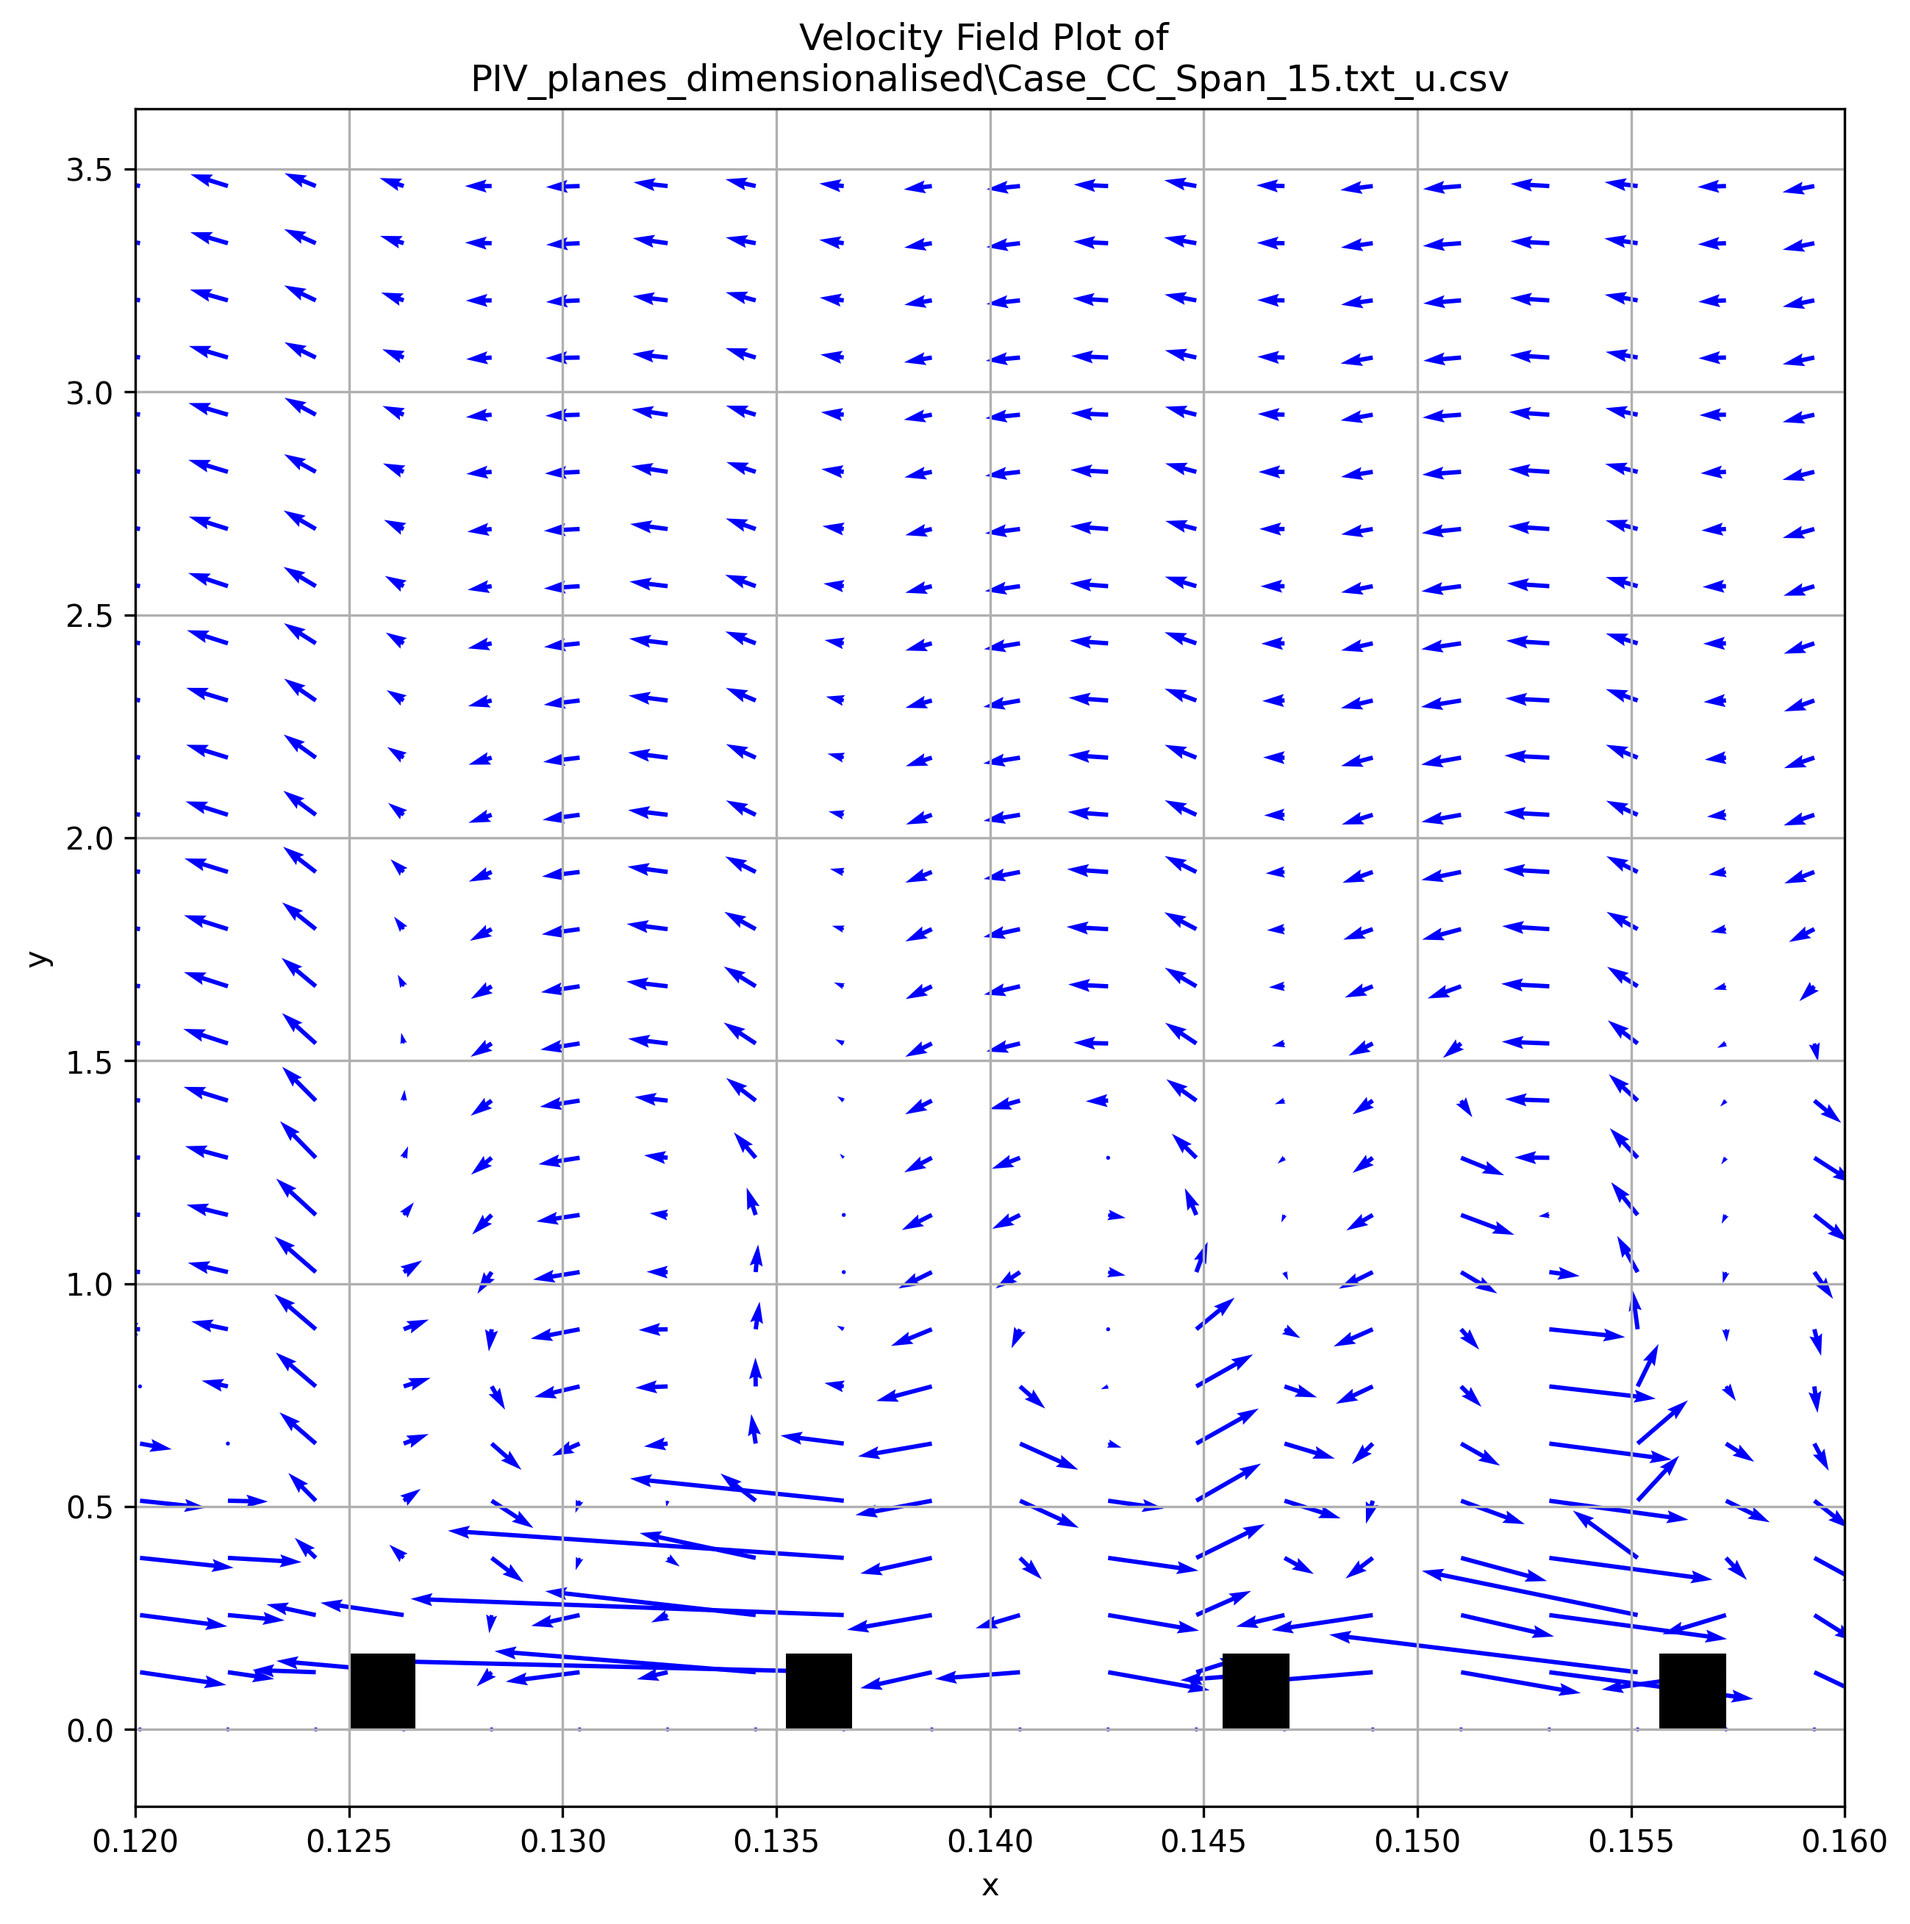
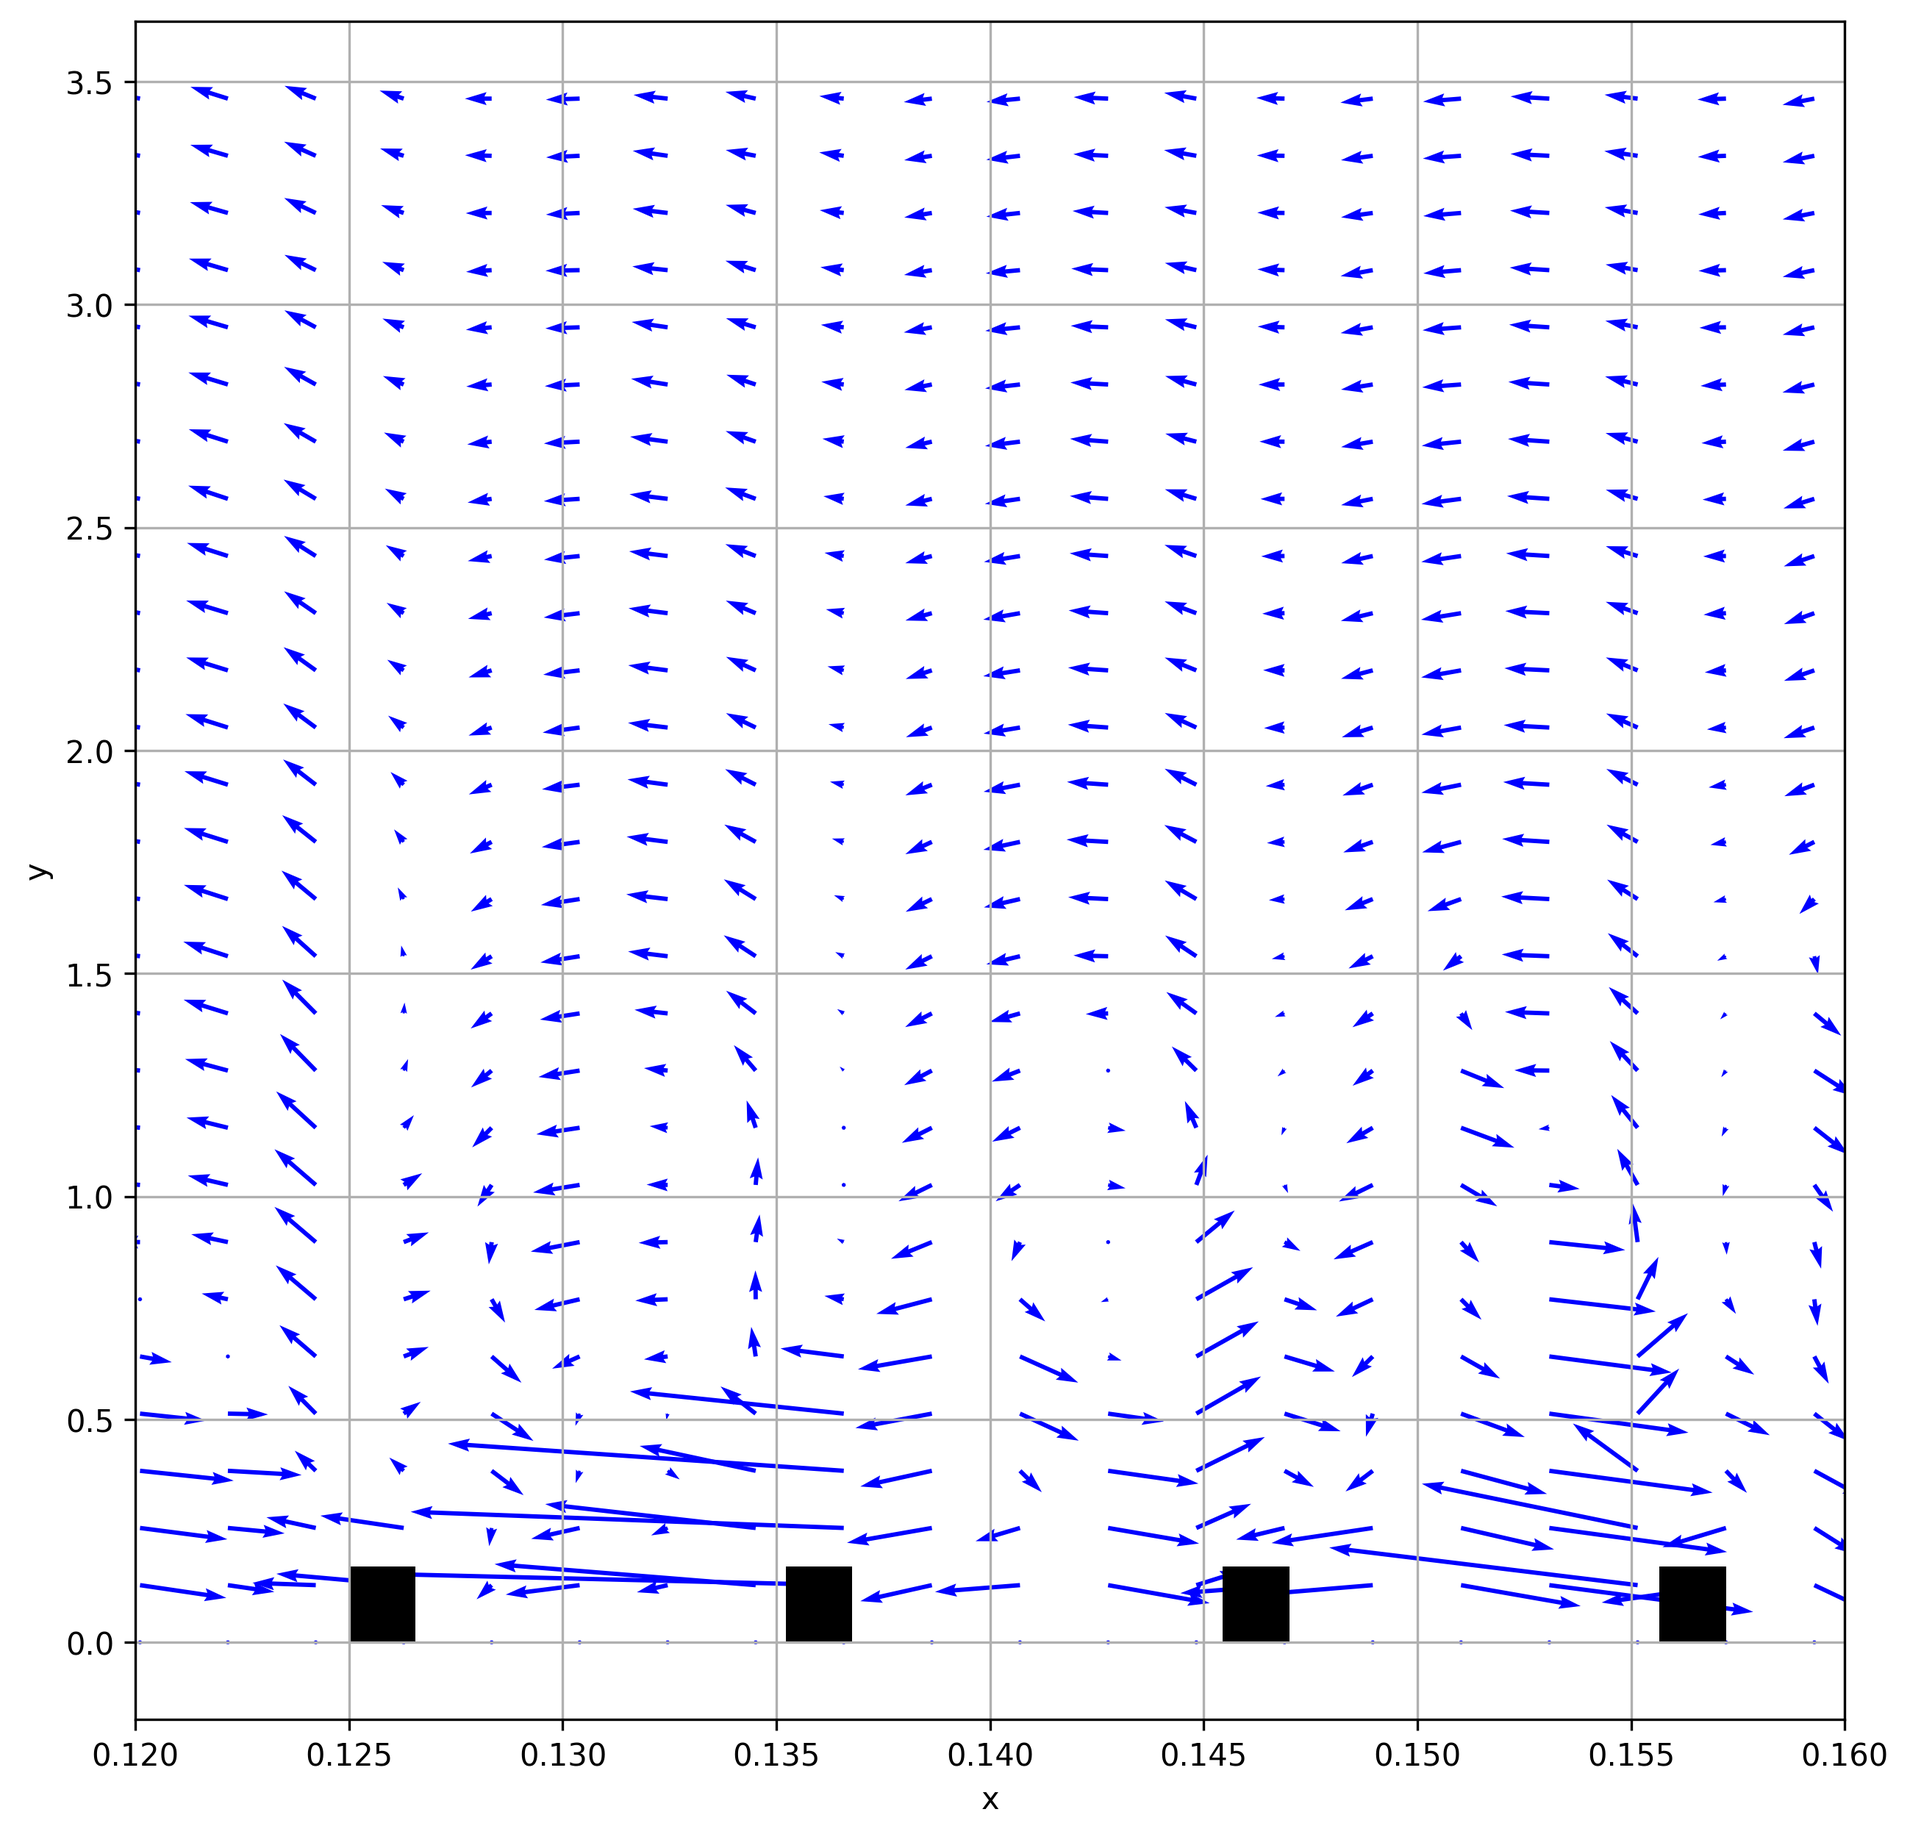
commit please

diff --git a/3dvelocityfieldplot.py b/3dvelocityfieldplot.py
@@ -120,10 +120,7 @@ for i in range(24):
     listaverageV = np.append(listaverageV,np.average(V_3D[:,:,i]))
     listaverageVc = np.append(listaverageVc,np.average(Vc_3D[:,:,i]))
 
-print(np.std(listaverageU/avgfreestreamUs))
-print(np.std(listaverageUc/avgfreestreamUs))
-print(np.std(listaverageV/avgfreestreamUs))
-print(np.std(listaverageVc/avgfreestreamUc))
+print(f'Standard Deviation of Velocity Fields: \n U velocity field in clean configuration: {np.std(listaverageUc/avgfreestreamUs)} \n U velocity field with strip configuration: {np.std(listaverageU/avgfreestreamUs)} \n V velocity field in clean configuration: {np.std(listaverageVc/avgfreestreamUs)} \n V velocity field with strip configuration: {np.std(listaverageV/avgfreestreamUs)}')
 
 '''
 ax.quiver(Y[::stepy,::stepx,:],X[::stepy,::stepx,:], Z[::stepy,::stepx,:], V_3D[::stepy,::stepx,:],U_3D[::stepy,::stepx,:], W_3D[::stepy,::stepx,:],length=0.1)

diff --git a/velocityfielddifference.py b/velocityfielddifference.py
@@ -130,7 +130,7 @@ for i in range(len(plane_files_U)):
     # Add labels and title
     ax.set_xlabel('x')
     ax.set_ylabel('y')
-    ax.set_title(f"Velocity Field Plot of \n{plane_files_U[i]}")
+    # ax.set_title(f"Velocity Field Plot of \n{plane_files_U[i]}")
 
 
     # Save the figure
